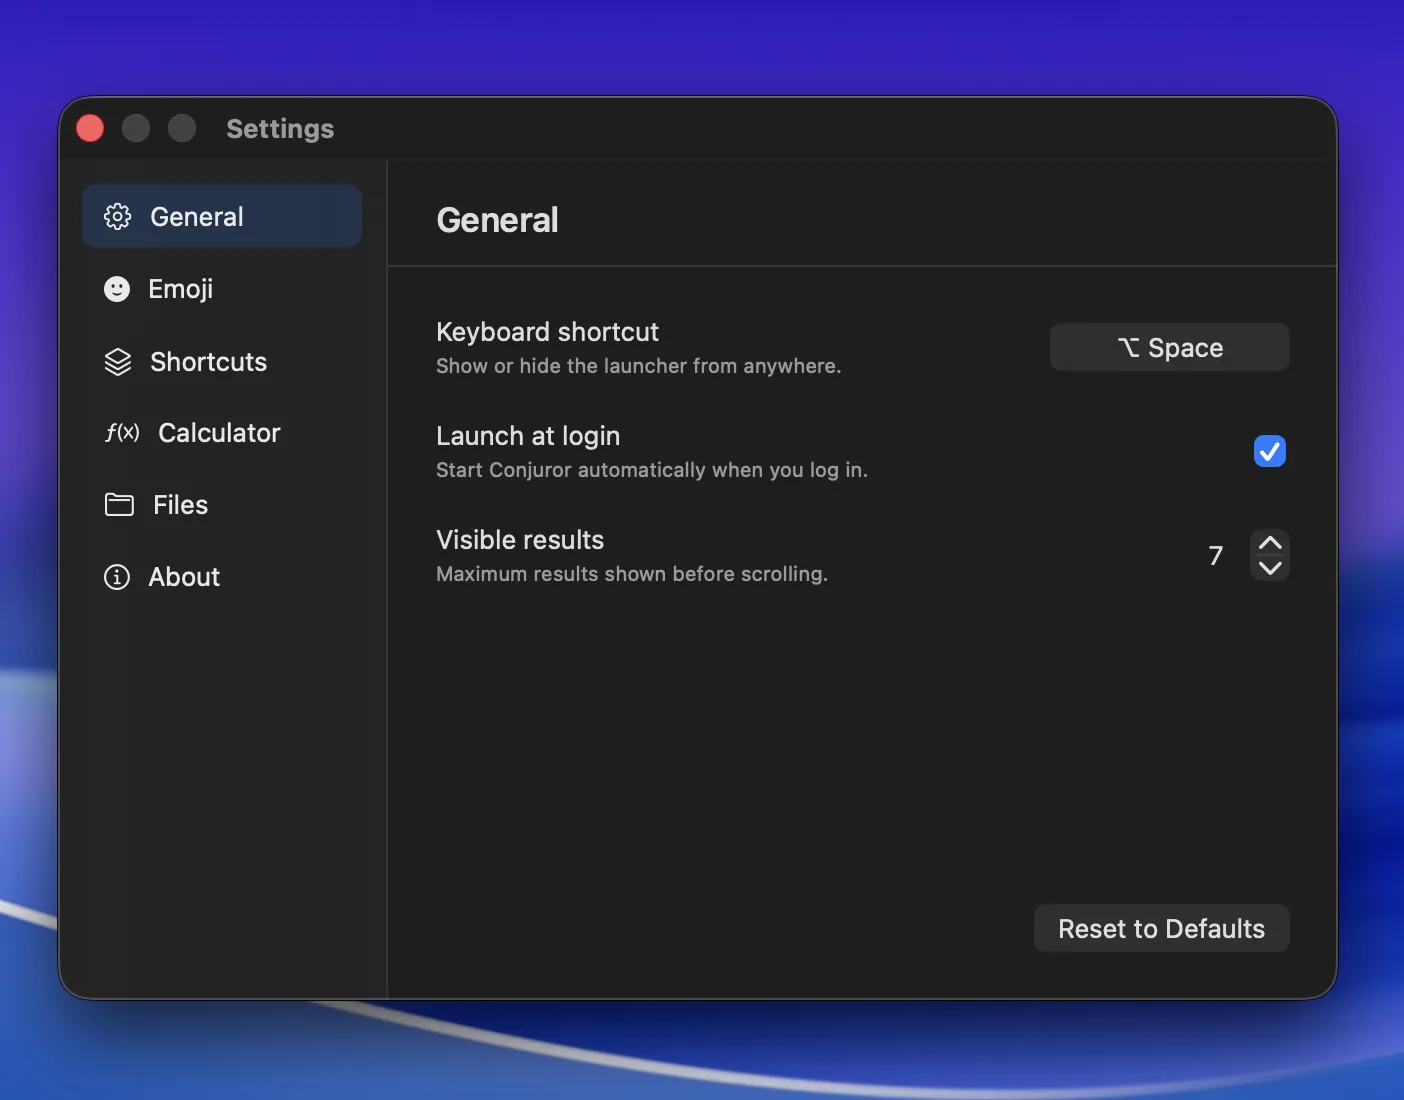
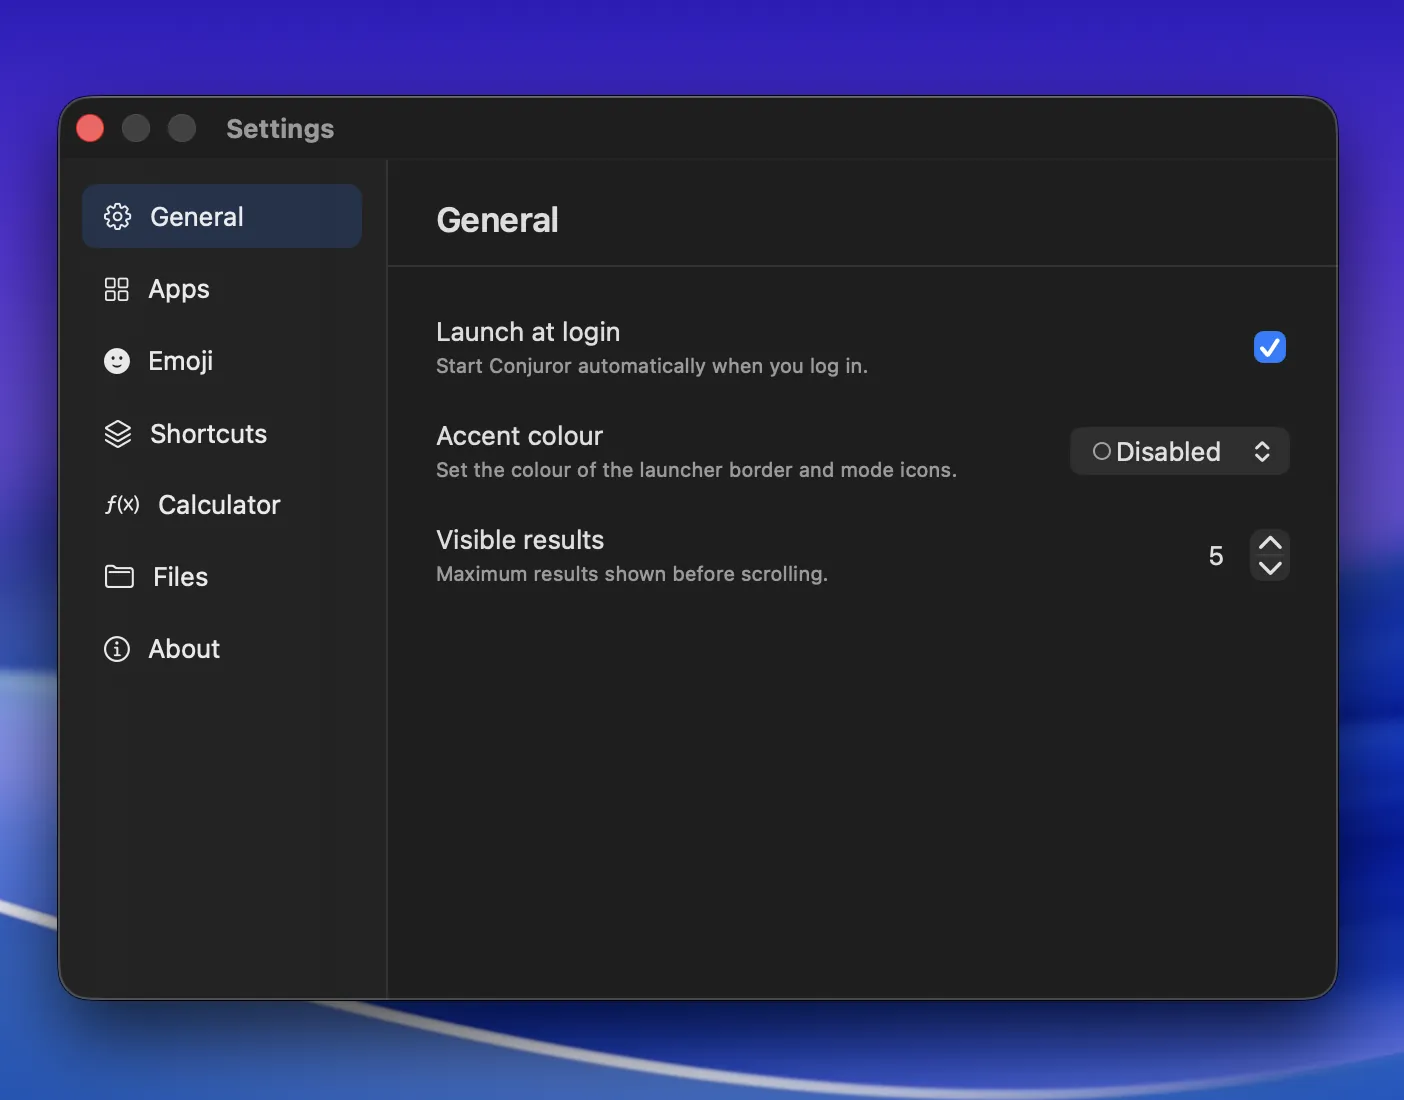
Update documentation for alpha 11

diff --git a/content/docs.md b/content/docs.md
@@ -55,7 +55,7 @@ Press `Tab` to cycle through Applications, Apple Shortcuts, Emoji, and Files. Yo
 
 Press `⌥ + Space` to show Conjuror, then start typing. Use the arrow keys to select a result and press Return to open, copy, or run it. Conjuror hides after completing the action.
 
-To change the main shortcut, open **Settings → General** and record a new key combination. Apple Shortcuts, Emoji, and Files each have a shortcut in their own Settings pane. Their defaults are `⌥ + ⇧ + Space`, `⌥ + ⇧ + E`, and `⌘ + ⇧ + F`.
+To change the main shortcut, open **Settings → Apps** and record a new key combination. Apple Shortcuts, Emoji, and Files each have a shortcut in their own Settings pane. Their defaults are `⌥ + ⇧ + Space`, `⌥ + ⇧ + E`, and `⌘ + ⇧ + F`.
 
 While the search field is active, you can use the standard shortcuts for copy, paste, cut, select all, undo, and redo.
 
@@ -63,21 +63,29 @@ Use the menu bar item to open Settings or quit Conjuror.
 
 ## Applications
 
-Start typing any part of an application’s name. Conjuror searches your installed apps, including user-facing menu bar apps, and uses recent launches to order similarly matched results.
+Start typing any part of an application’s name. Conjuror searches your installed apps, including user-facing menu bar apps such as Keychain Access and Passwords, and uses recent launches to order similarly matched results.
 
 Use `↑` and `↓` to select an app, then press Return or click the result to open it. Background-only apps, embedded helpers, and Conjuror itself do not appear in the results.
 
+Applications mode also includes sections from System Settings. Search for a section such as `Bluetooth`, `Displays`, or `Software Update`, then open it to go directly to that pane. These results are on by default; turn off **System Settings results** under **Settings → Apps** if you only want applications.
+
+{{< docs-screenshot src="/images/screenshots/settings-apps.webp" alt="Conjuror Apps settings showing the main keyboard shortcut and enabled System Settings results" caption="Apps settings control the main launcher shortcut and System Settings results." >}}
+
 ## Files and folders
 
-Type `/` to switch to Files mode, then search by file or folder name. Conjuror searches items indexed by Spotlight that macOS allows it to access. Hidden items do not appear.
+Type `/` to switch to Files mode, then enter at least two characters from a file or folder name. Each query word is matched independently, and its letters only have to appear in order: a short query such as `qtr rpt` can find “Quarterly Report”. Exact names and prefixes rank ahead of looser fuzzy matches.
+
+Conjuror searches items indexed by Spotlight that macOS allows it to access. Hidden items do not appear.
 
 Use `↑` and `↓` to select a result, then press Return or click it. Files open in their default app; folders open in Finder. Search stays on your Mac.
 
-Desktop, Documents, and Downloads are protected by macOS. Open **Settings → Files**, choose **Grant Access**, and approve the prompts for any of those folders you want included in results.
+Desktop, Documents, Downloads, and iCloud Drive are protected by macOS. Conjuror requests access when you first run a file search. You can also open **Settings → Files**, choose **Grant Access**, and approve the prompts for any of those folders you want included in results.
 
 Use `⌘ + ⇧ + F` to open Conjuror directly in Files mode. You can turn this shortcut off or record a different key combination under **Settings → Files**.
 
-{{< docs-screenshot src="/images/screenshots/settings-files.webp" alt="Conjuror Settings open to Files, with a Grant Access button for protected folders" caption="Grant access to protected folders from Settings → Files." >}}
+To remove Files mode from the launcher, turn off **Files module** in the same Settings pane.
+
+{{< docs-screenshot src="/images/screenshots/settings-files.webp" alt="Conjuror Files settings showing the enabled Files module, direct shortcut, and protected-folder access including iCloud Drive" caption="Enable file search, configure its shortcut, and grant protected-folder access from Settings → Files." >}}
 
 ## Calculations
 
@@ -178,26 +186,27 @@ Recently run Shortcuts appear first when the search is empty and can rank higher
 
 ## Settings
 
-Open Settings from the menu bar item, or press `⌘ + ,` while Conjuror is active.
+Open Settings from the menu bar item, or press `⌘ + ,` while Conjuror is active. The window opens on your currently active macOS Space.
 
-- **General:** Change the main shortcut, turn launch at login on or off, and choose how many results appear before scrolling.
+- **General:** Turn launch at login on or off, choose the accent colour shared by the launcher border and mode icons, and set how many results appear before scrolling. Accent choices include Cyan, Purple, Yellow, a custom colour, or Disabled.
+- **Apps:** Change the main launcher shortcut and choose whether application search includes System Settings sections.
 - **Emoji:** Configure the shortcut that opens Emoji mode directly and choose the skin tone Conjuror applies to supported emoji by default.
 - **Shortcuts:** Configure the shortcut that opens Apple Shortcuts mode directly.
 - **Calculator:** Turn optional currency conversion on or off.
-- **Files:** Configure the shortcut that opens Files mode directly and request access to protected Desktop, Documents, and Downloads folders.
+- **Files:** Turn file and folder search on or off, configure its direct shortcut, and request access to the protected Desktop, Documents, Downloads, and iCloud Drive locations.
 - **About:** Check the installed version or open the GitHub repository and licence.
 
 The visible-results setting accepts values from 3 to 10. Launch at login is off by default. If macOS requires approval after you enable it, use **Open Login Items Settings** to finish the setup.
 
-Use **Reset to Defaults** in General to restore all keyboard shortcuts, the visible-results setting, and the preferred emoji skin tone.
+Use **Reset to Defaults** under Apps to restore all keyboard shortcuts, the accent colour, the visible-results setting, and the preferred emoji skin tone.
 
-{{< docs-screenshot src="/images/screenshots/settings-general.webp" alt="Conjuror General settings showing keyboard shortcuts, launch at login, visible results, and Reset to Defaults" caption="General settings control Conjuror’s shortcuts, launch behaviour, and result count." >}}
+{{< docs-screenshot src="/images/screenshots/settings-general.webp" alt="Conjuror General settings showing launch at login, accent colour, and visible results" caption="General settings control launch behaviour, the launcher accent, and result count." >}}
 
 ## Permissions
 
 To search and run Apple Shortcuts, allow Conjuror to control Shortcuts Events when macOS first asks. This Automation permission is only required for Apple Shortcuts mode.
 
-File search uses the on-device Spotlight index. macOS may ask before Conjuror can access Desktop, Documents, or Downloads; you can trigger those prompts from **Settings → Files**.
+File search uses the on-device Spotlight index. macOS may ask before Conjuror can access Desktop, Documents, Downloads, or iCloud Drive; you can trigger those prompts from **Settings → Files**.
 
 Currency conversion uses the network to download an exchange-rate snapshot at most once per day. Your search text is never sent, and the latest rates remain available offline.
 

diff --git a/content/changelog.md b/content/changelog.md
@@ -5,6 +5,13 @@ type: changelog
 url: /changelog/
 ---
 
+## 1.0 alpha (11)
+
+- Added iCloud Drive to protected folder access requests.
+- Fixed broad fuzzy file searches continuing indefinitely.
+- Fixed multi-word fuzzy file searches failing to match across filename words.
+- Fixed single-word file searches crashing before Spotlight could start.
+
 ## 1.0 alpha (10)
 
 - Added a dedicated Apps section in settings.
